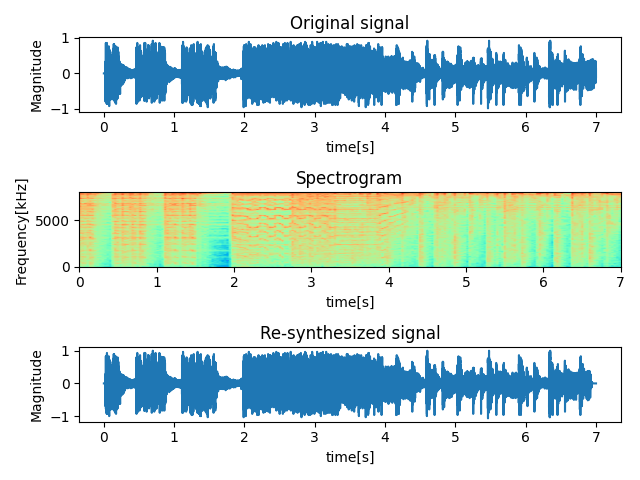
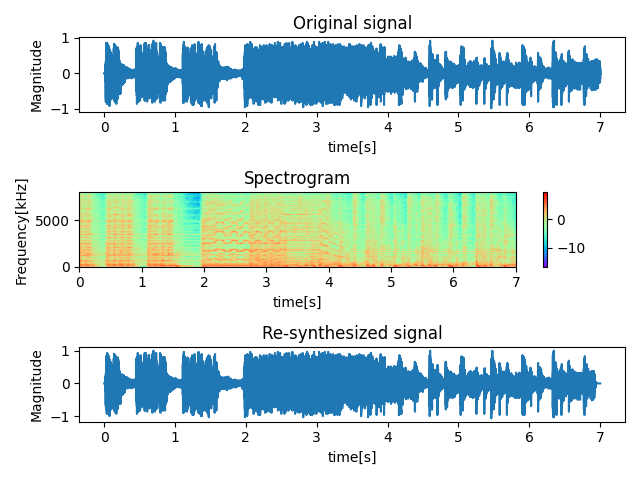
fix draw_spectrogram

diff --git a/ex01/k_okamori/ex01_okamori.py b/ex01/k_okamori/ex01_okamori.py
@@ -1,14 +1,16 @@
 import numpy as np
-import soundfile as sf # 音声データの読み取り
-import matplotlib.pyplot as plt # 出力データのプロット
+import soundfile as sf  # 音声データの読み取り
+import matplotlib.pyplot as plt  # 出力データのプロット
 
 # 定数の定義
-NFFT = 1024 # frame の大きさ
-OVERLAP = int(NFFT / 2) # half shift を採用
-window = np.hamming(NFFT) # 窓関数はハミング窓を使用
+NFFT = 1024  # frame の大きさ
+OVERLAP = int(NFFT / 2)  # half shift を採用
+window = np.hamming(NFFT)  # 窓関数はハミング窓を使用
 
 # 音声データのロード
 #   fname: ファイル名
+
+
 def wav_load(fname):
     wave, samplerate = sf.read(fname)
     return wave, samplerate
@@ -18,11 +20,13 @@ def wav_load(fname):
 #   title: グラフのタイトル
 #   time:   x座標のデータ
 #   wave:   y座標のデータ
+
+
 def draw_signal(ax, title, time, wave):
-    ax.plot(time, wave) # 時間信号の描画
-    ax.set_title(title) # タイトルの追加
+    ax.plot(time, wave)  # 時間信号の描画
+    ax.set_title(title)  # タイトルの追加
     ax.set_xlabel("time[s]")   # x軸ラベルの追加
-    ax.set_ylabel("Magnitude") # y軸ラベルの追加
+    ax.set_ylabel("Magnitude")  # y軸ラベルの追加
 
 # スペクトログラムグラフの描画
 #   ax:グラフ領域
@@ -30,61 +34,67 @@ def draw_signal(ax, title, time, wave):
 #   spec: スペクトログラムのデータ
 #   wave_length: 音源の長さ
 #   samplerate: サンプルレート
-def draw_spectrogram(ax, title, spec, wave_length, samplerate):
-    spec = np.log(np.square(np.abs(spec))) 
-    ax.imshow(spec.T, extent = [0, wave_length, 0, samplerate / 2],
-    cmap = "rainbow", aspect = "auto") # スペクトログラムの描画
+
+
+def draw_spectrogram(fig, ax, title, spec, wave_length, samplerate):
+    spec = np.log(np.square(np.abs(spec)))
+    im = ax.imshow(spec.T, extent=[0, wave_length, 0, samplerate / 2],
+                   cmap="rainbow", aspect="auto", origin="lower")  # スペクトログラムの描画
+    fig.colorbar(im, ax=ax)
     ax.set_title(title)             # タイトルの追加
     ax.set_xlabel("time[s]")        # x軸ラベルの追加
-    ax.set_ylabel("Frequency[kHz]") # y軸ラベルの追加
-    
+    ax.set_ylabel("Frequency[kHz]")  # y軸ラベルの追加
+
 
 # 短時間フーリエ変換(STFT)
 #   wave: 入力波形
 def stft(wave):
     spec = np.zeros([len(wave) // OVERLAP - 1, int(NFFT / 2) + 1],
-    dtype = np.complex) # spec:出力データ
+                    dtype=np.complex)  # spec:出力データ
     for idx in range(0, len(wave), OVERLAP):
-        frame = wave[idx : idx + NFFT] # frame の切り出し
-        if len(frame) == NFFT: # frame が全部切り出せるときのみ変換
-            windowed = window * frame # 窓関数をかける
-            result = np.fft.rfft(windowed) #フーリエ変換
+        frame = wave[idx: idx + NFFT]  # frame の切り出し
+        if len(frame) == NFFT:  # frame が全部切り出せるときのみ変換
+            windowed = window * frame  # 窓関数をかける
+            result = np.fft.rfft(windowed)  # フーリエ変換
             for i in range(spec.shape[1]):
-                spec[int(idx / OVERLAP)][i] = result[i] # 計算結果を出力データに追加
+                spec[int(idx / OVERLAP)][i] = result[i]  # 計算結果を出力データに追加
     return spec
 
 # 短時間フーリエ逆変換(ISTFT)
 #   spec: スペクトログラム
 #   wave_size: wave の要素数
+
+
 def i_stft(spec, wave_size):
-    wave = np.zeros(wave_size) # wave:出力データ
+    wave = np.zeros(wave_size)  # wave:出力データ
     for idx in range(wave_size // OVERLAP - 2):
-        frame = np.fft.irfft(spec[idx]) # frame の切り出し
-        wave[idx * OVERLAP : idx * OVERLAP + NFFT] += np.real(frame) #フーリエ逆変換
+        frame = np.fft.irfft(spec[idx])  # frame の切り出し
+        wave[idx * OVERLAP: idx * OVERLAP + NFFT] += np.real(frame)  # フーリエ逆変換
     return wave
 
 
 # main
 def main():
-    fig = plt.figure() # 以下，グラフ領域の確保
+    fig = plt.figure()  # 以下，グラフ領域の確保
     ax1 = fig.add_subplot(3, 1, 1)
     ax2 = fig.add_subplot(3, 1, 2)
     ax3 = fig.add_subplot(3, 1, 3)
-    wave, samplerate = wav_load("sound.wav") # 音声データのロード
-    wave_size = len(wave) # wave の要素数
-    wave_length = wave_size / samplerate # wave の長さ
-    time = np.arange(0, wave_size) / samplerate # 横軸を time に設定
-    draw_signal(ax1, "Original signal", time, wave) # 元データの描画
-    spec = stft(wave) # 短時間フーリエ変換
-    draw_spectrogram(ax2, "Spectrogram", spec,
-    wave_length, samplerate) # スペクトログラムデータの描画
-    wave = i_stft(spec, wave_size) # 短時間フーリエ逆変換
-    draw_signal(ax3, "Re-synthesized signal", time, wave) # 復元データの描画
-    fig.tight_layout() # レイアウト調整
-    plt.savefig('ex01.png') # 保存
+    wave, samplerate = wav_load("sound.wav")  # 音声データのロード
+    wave_size = len(wave)  # wave の要素数
+    wave_length = wave_size / samplerate  # wave の長さ
+    time = np.arange(0, wave_size) / samplerate  # 横軸を time に設定
+    draw_signal(ax1, "Original signal", time, wave)  # 元データの描画
+    spec = stft(wave)  # 短時間フーリエ変換
+    draw_spectrogram(fig, ax2, "Spectrogram", spec,
+                     wave_length, samplerate)  # スペクトログラムデータの描画
+    wave = i_stft(spec, wave_size)  # 短時間フーリエ逆変換
+    draw_signal(ax3, "Re-synthesized signal", time, wave)  # 復元データの描画
+    fig.tight_layout()  # レイアウト調整
+    plt.savefig('ex01.png')  # 保存
 
     sf.write("out.wav", wave, samplerate,
-    format = "WAV", subtype = 'PCM_16') # 変換後音声データの書き出し
+             format="WAV", subtype='PCM_16')  # 変換後音声データの書き出し
 
-if __name__ == "__main__"
+
+if __name__ == "__main__":
     main()
